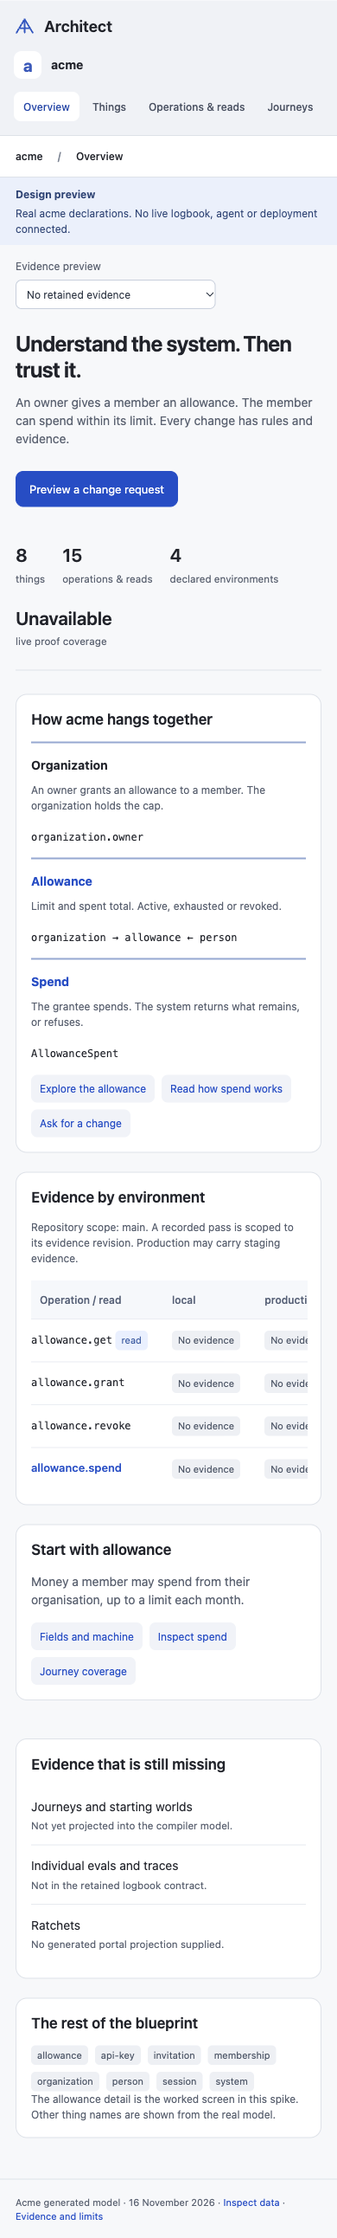
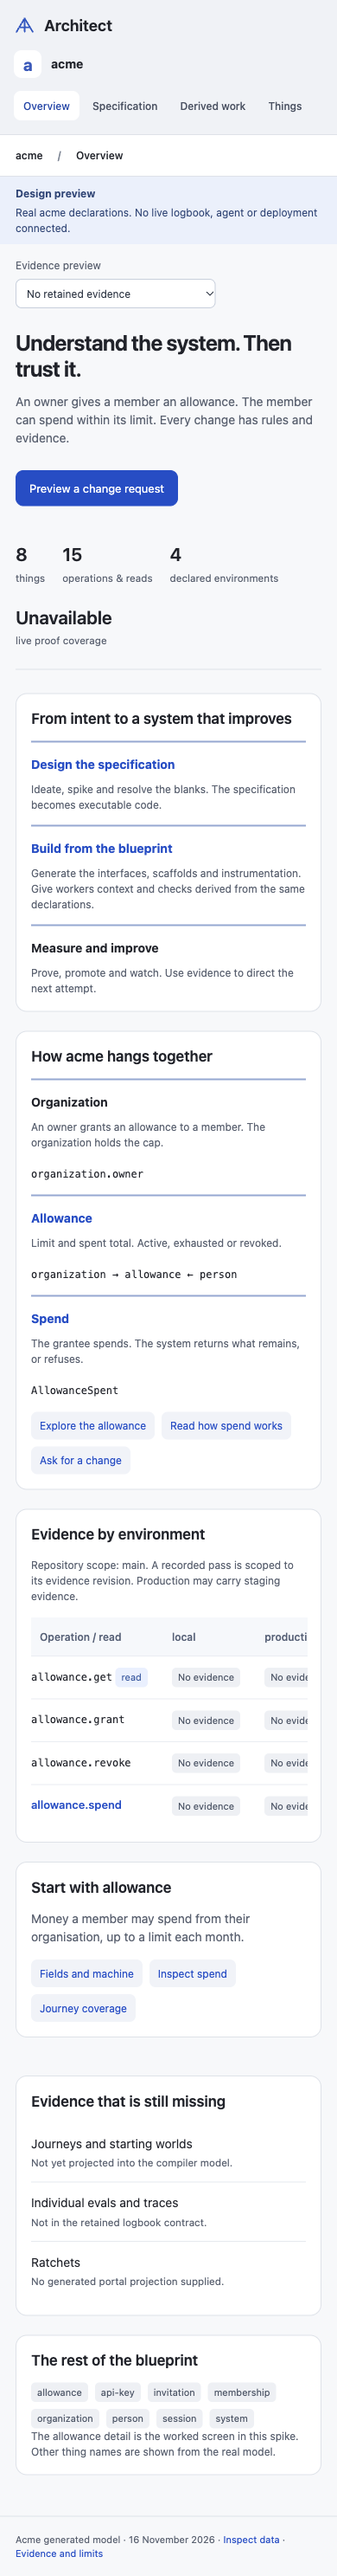
design: capture lifecycle views and browser verification

diff --git a/spikes/frontend-dx/review.md b/spikes/frontend-dx/review.md
@@ -4,8 +4,8 @@
 
 ## Browser observations
 
-Ego browser, 1440 × 1040 desktop and 390 × 844 mobile. All five captured screens (home, thing, operation,
-change loop, docs) reported body width equal to viewport width after the responsive table fix. Ten screenshots
+Ego browser, 1440 × 1040 desktop and 390 × 844 mobile. All eleven routes (home, specification, derived work, thing, operation,
+change loop, docs, journeys, environments, releases, later capabilities) reported body width equal to viewport width after the responsive table fix. Fourteen screenshots (the four required views plus specification, derived work and docs at each size)
 are retained in `screenshots/`. Updated files were reloaded with browser cache disabled before final capture.
 
 | Scenario | Stale cells | Failed cells | Recorded-pass cells | Meaning |

diff --git a/spikes/frontend-dx/README.md b/spikes/frontend-dx/README.md
@@ -52,7 +52,7 @@ deterministically. Run it without `--check` after deliberately updating the revi
 project source at app runtime. The committed fixture script has a generated header and is not hand-edited.
 
 Browser inspection: desktop 1440 × 1040 and mobile 390 × 844. Screenshots are under `screenshots/`, four required
-views plus Docs at each size. Tables intentionally scroll within their containers on mobile. Native anchors, select, buttons
+views plus Specification, Derived work and Docs at each size. Tables intentionally scroll within their containers on mobile. Native anchors, select, buttons
 and textarea remain keyboard accessible; the skip link and visible focus are present. A mechanical design scan
 reported no findings. These are scoped static-mock checks, not WCAG certification or HeroUI runtime proof.
 
